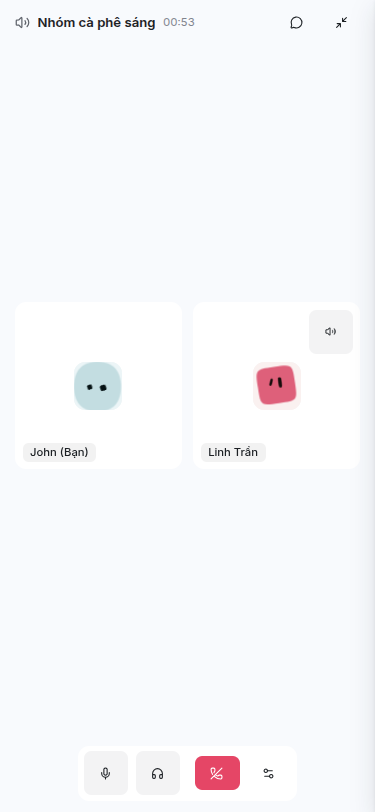
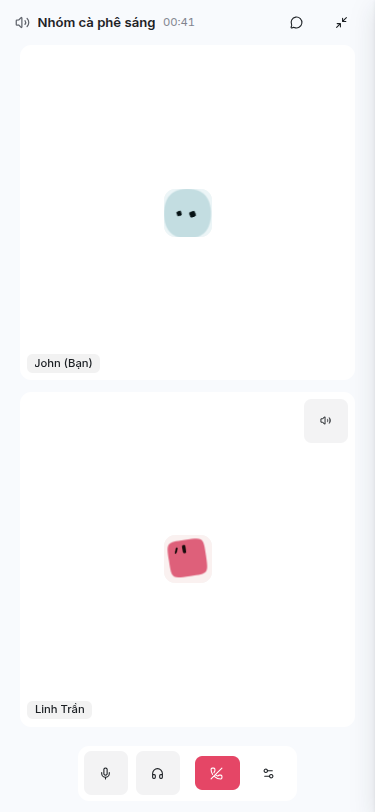
fix(calls): xếp ô người tham gia theo số lượng trên điện thoại

diff --git a/resources/js/dashboard/calls/CallStage.tsx b/resources/js/dashboard/calls/CallStage.tsx
@@ -10,9 +10,9 @@ import { useVisibleCameras } from './visibleCameras';
 import { useAlert } from 'dashboard/composables/useAlert';
 
 // Số cột theo số người: 1 → 1, 2–4 → 2, 5–9 → 3, nhiều hơn → 4 (điện thoại tối đa 2).
-function gridColumns(count: number, isPhone: boolean): string {
+function gridColumns(count: number): string {
     if (count <= 1) return 'grid-cols-1';
-    if (isPhone || count <= 4) return 'grid-cols-2';
+    if (count <= 4) return 'grid-cols-2';
     if (count <= 9) return 'grid-cols-3';
     return 'grid-cols-4';
 }
@@ -35,6 +35,17 @@ export default function CallStage({
     const stageRef = useRef<HTMLElement>(null);
     const sharer = room.participants.find((participant) => participant.isSharingScreen) ?? null;
     const visibleCameras = useVisibleCameras(room.participants, sharer !== null);
+    const participantCount = room.participants.length;
+    const phoneLayout = participantCount <= 2
+        ? 'flex flex-col items-center [justify-content:safe_center]'
+        : 'flex flex-wrap justify-center [align-content:safe_center]';
+    const phoneTileWidth = participantCount <= 1
+        ? 'w-full'
+        : participantCount === 2
+          ? 'w-[min(100%,calc((100cqh-0.75rem)/2))]'
+          : participantCount <= 4
+            ? 'w-[calc((100%-0.75rem)/2)]'
+            : 'w-[calc((100%-1.5rem)/3)]';
     const tileProps = {
         renderMedia,
         canModerate: local.canModerate,
@@ -110,7 +121,7 @@ export default function CallStage({
                         </div>
                     </div>
                 ) : (
-                    <div className={`grid h-full gap-3 ${isPhone ? 'auto-rows-min [align-content:safe_center]' : 'auto-rows-fr'} ${gridColumns(room.participants.length, isPhone)}`}>
+                    <div className={`h-full gap-3 ${isPhone ? `${phoneLayout} [container-type:size]` : `grid auto-rows-fr ${gridColumns(participantCount)}`}`}>
                         {room.participants.map((participant) => (
                             <CallTile
                                 key={participant.identity}
@@ -118,7 +129,7 @@ export default function CallStage({
                                 source="camera"
                                 displayVideo={visibleCameras.has(participant.identity)}
                                 {...tileProps}
-                                className={isPhone ? 'aspect-square min-h-0' : 'min-h-0'}
+                                className={isPhone ? `aspect-square min-h-0 flex-none ${phoneTileWidth}` : 'min-h-0'}
                             />
                         ))}
                     </div>

diff --git a/reports/call-scenes-audit-20261022.md b/reports/call-scenes-audit-20261022.md
@@ -8,7 +8,7 @@
 2. **Mũi tên chọn thiết bị bị cắt:** thay select viết riêng bằng `SelectInput` của portal, có khoảng trống và icon bên trong field, vùng chạm tối thiểu 44px. Không đổi logic chọn micro hoặc thiết bị phát.
 3. **Màn live che trang mới:** phiên gọi sống ngoài trang, nhưng scene mở rộng cũng được giữ khi URL đổi. Khi pathname/query thay đổi, chỉ thu nhỏ scene; không disconnect media. Bấm mini player mở lại được. Chia sẻ trong cuộc gọi 1-1 dùng scene live chung; dừng chia sẻ quay lại scene thoại/video.
 4. **FPS về 0:** UI cũ chỉ đọc outbound RTP rồi dùng nó để kết luận preview bị đứng/chất lượng kém. Tách `previewWidth`, `previewHeight`, `previewFps` đo từ thẻ video thật với FPS/bitrate gửi hoặc nhận từ WebRTC. Giữ riêng trạng thái `active`, `waiting`, `paused`. Preview không lấy FPS cấu hình làm FPS đo được.
-5. **Ô người tham gia trên điện thoại:** ô cũ 345×681.75px tại viewport 375×812. Sau sửa, một người là 345×345px; hai người đều 166.875×166.875px. Nhiều hàng có vùng cuộn, không kéo ô để lấp chiều cao màn hình.
+5. **Ô người tham gia trên điện thoại:** ô cũ 345×681.75px tại viewport 375×812. Sau sửa, một người là 345×345px; hai người xếp dọc, mỗi ô 335.25×335.25px, không phát sinh cuộn thừa. Nhiều hàng có vùng cuộn, không kéo ô để lấp chiều cao màn hình.
 6. **Fullscreen bị browser từ chối:** bắt lỗi và báo bằng snackbar; vẫn xem/thu nhỏ được, không còn Promise rejection không xử lý.
 
 ## Bằng chứng production chỉ đọc
@@ -36,7 +36,7 @@ Room đang bật Dynacast. [Tài liệu LiveKit](https://docs.livekit.io/transpo
 | Fullscreen | Browser của phiên nghiệm thu từ chối request; bản cuối hiện thông báo và Thu nhỏ vẫn dùng được. Chưa xác nhận nhánh vào fullscreen thành công trên thiết bị cho phép |
 | Rời/kết thúc | Hai phiên đã rời; DOM cả hai không còn thẻ audio/video |
 
-Hai phiên nằm trên cùng máy, không thay cho nghiệm thu hai thiết bị vật lý. Không thêm hoặc chạy test tự động. Không ghi nội dung tiếng/hình vào telemetry.
+Hai phiên nằm trên cùng máy, không thay cho nghiệm thu hai thiết bị vật lý. Bố cục 3–4 người dùng hai cột, từ 5 người dùng ba cột và căn giữa hàng cuối; chưa nghiệm thu thật đủ 3/4/5 người trong lượt này. Không thêm hoặc chạy test tự động. Không ghi nội dung tiếng/hình vào telemetry.
 
 ## Số đo và giới hạn
 

diff --git a/docs/ux-decisions.md b/docs/ux-decisions.md
@@ -187,3 +187,5 @@ Kiến trúc: [system-architecture.md](system-architecture.md).
 Chuyển kênh/hội thoại thu nhỏ màn gọi, giữ phiên media; mini player mở lại màn live. Gọi 1-1 có chia sẻ dùng cùng scene live với nhóm. Các nút lớn dùng chung CallActionGrid; chọn thiết bị dùng SelectInput của portal. Trên điện thoại, ô người tham gia giữ tỷ lệ vuông và cuộn khi nhiều hàng.
 
 Số FPS preview được đo từ video đang hiển thị, độc lập với FPS/bitrate RTP gửi hoặc nhận. Khi không có người xem hoặc encoding tạm ngừng, giữ số truyền thực tế và ghi rõ trạng thái; không coi FPS gửi 0 là preview đứng. Mục tiêu 1080p60 không đổi; mẫu active chưa đạt vẫn cảnh báo. Chi tiết nghiệm thu và giới hạn nằm ở reports/call-scenes-audit-20261022.md.
+
+Bố cục người tham gia trên phone: hai người xếp dọc và tự giới hạn kích thước theo chiều cao vùng nội dung để giữ ô vuông; 3–4 người dùng hai cột, từ 5 người dùng ba cột. Hàng cuối căn giữa; khi không đủ chỗ thì cuộn. Kích thước dùng CSS container của vùng gọi, không thêm timer đo layout.
